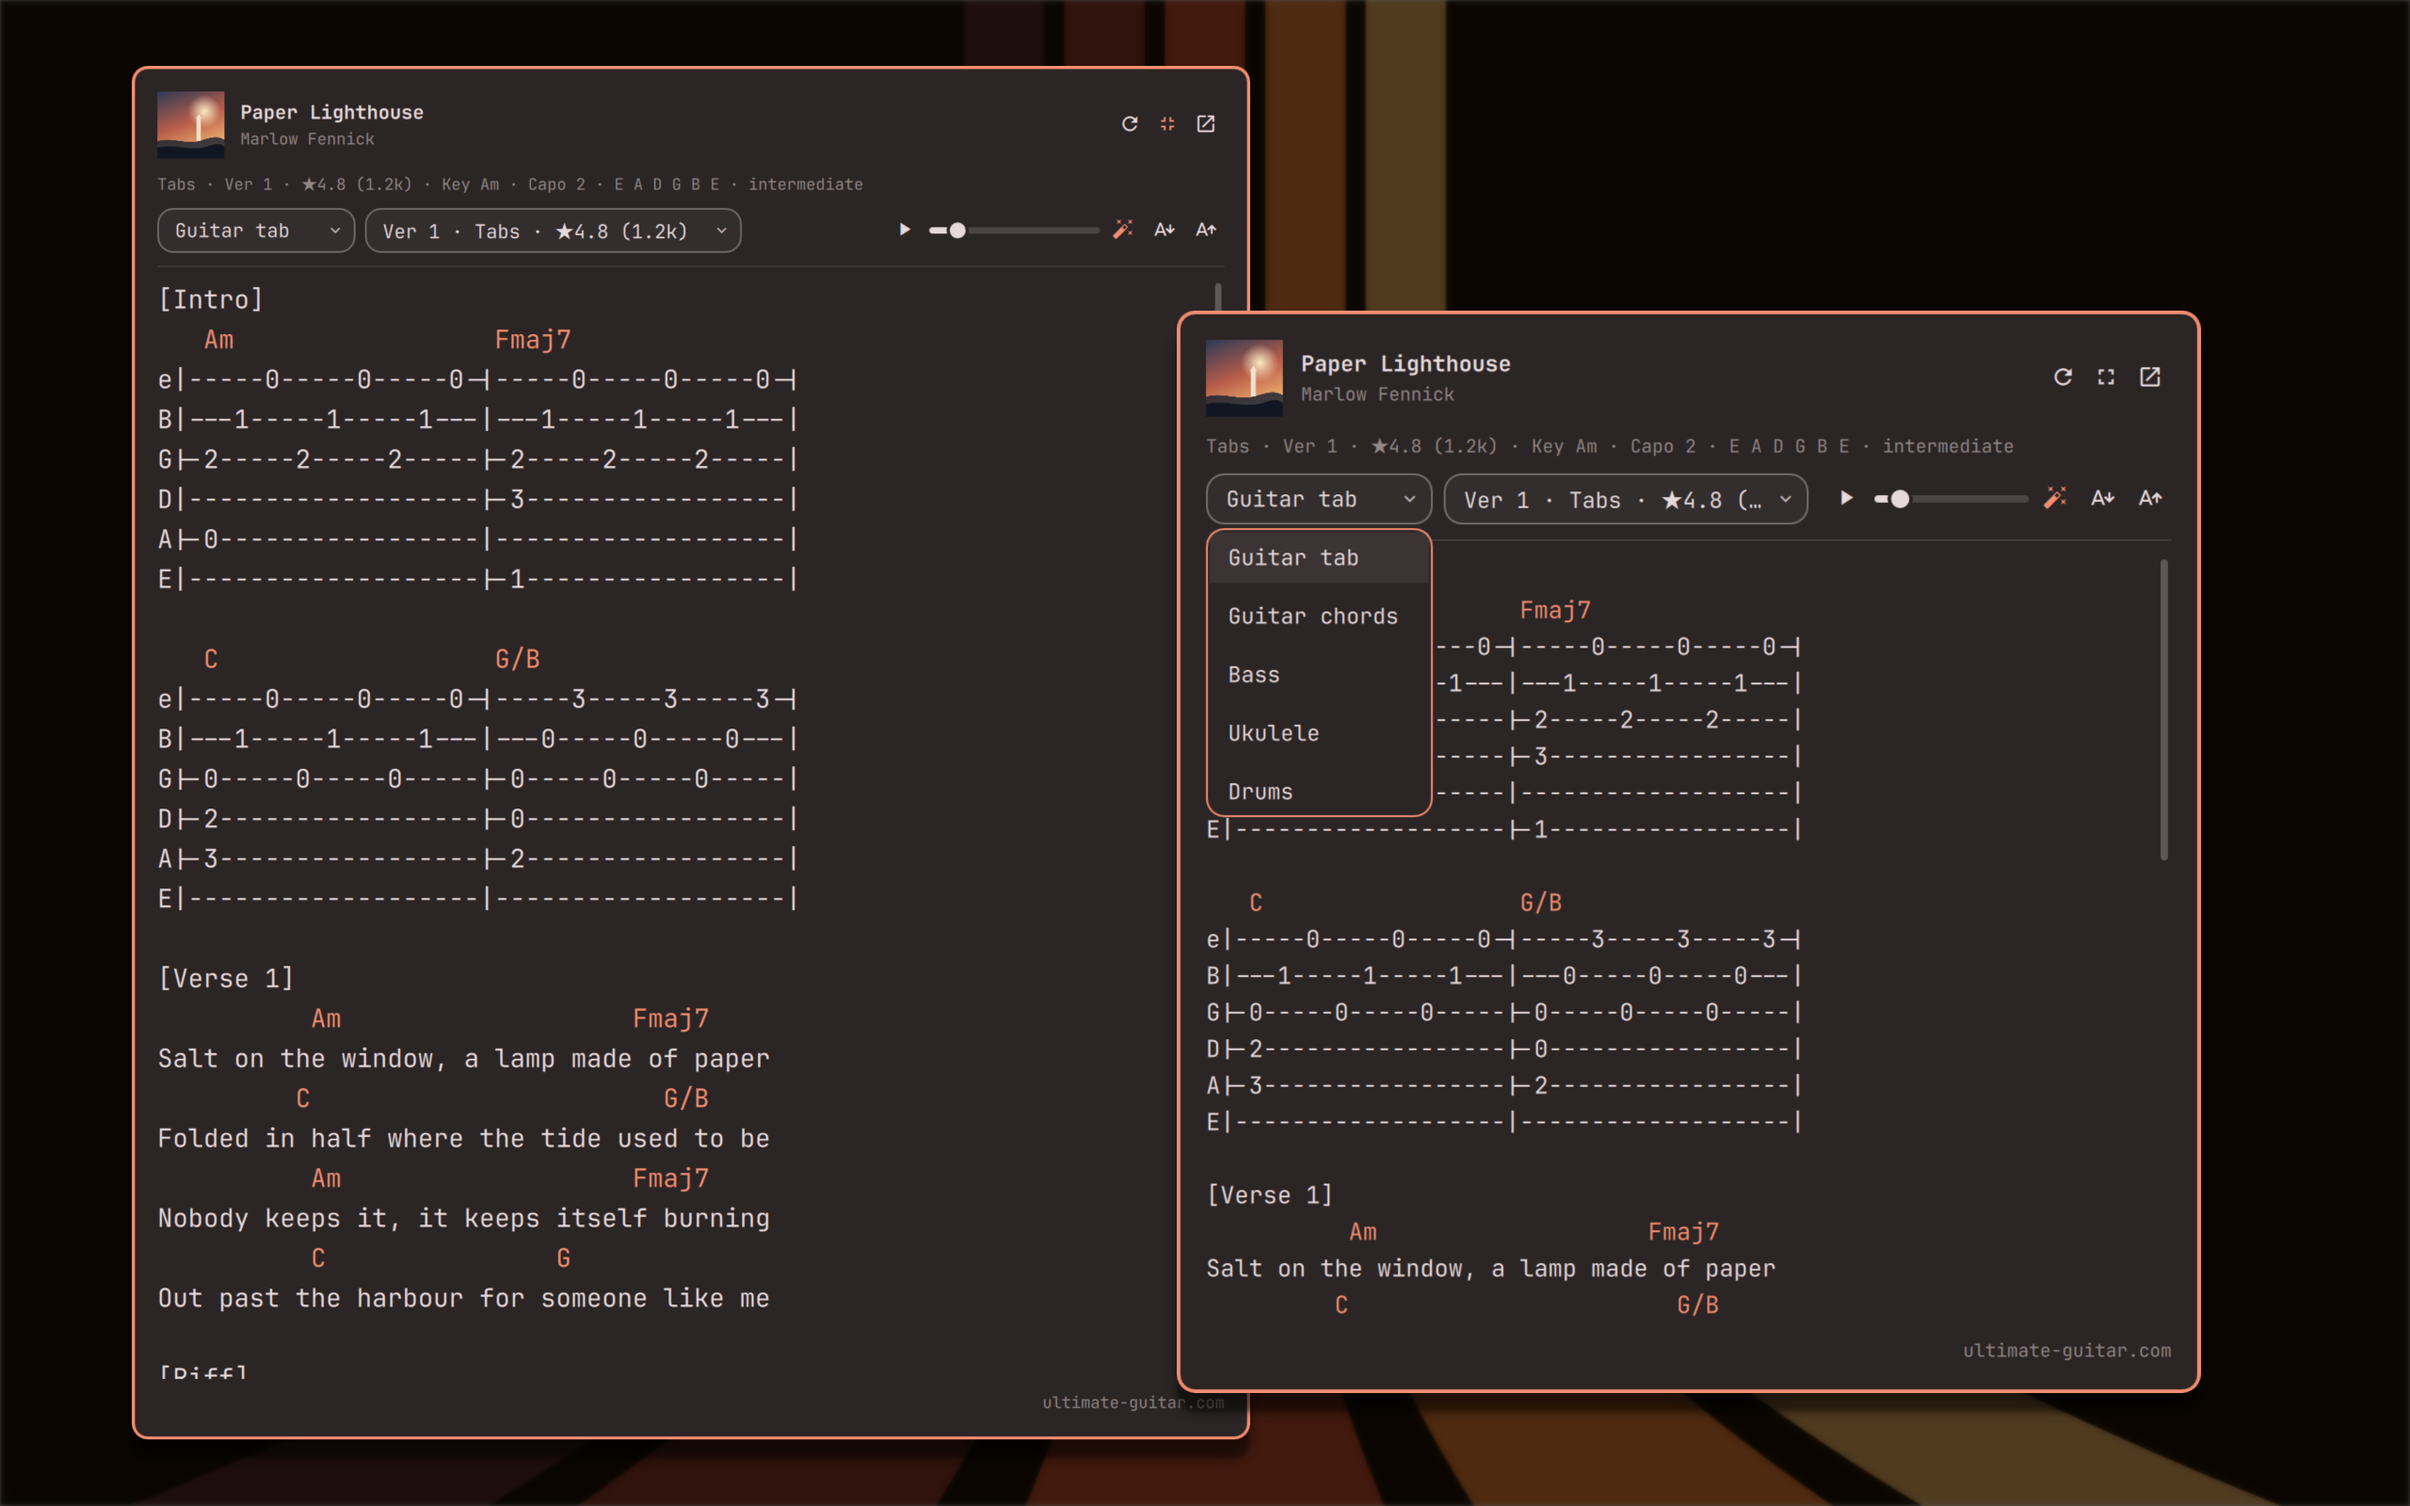
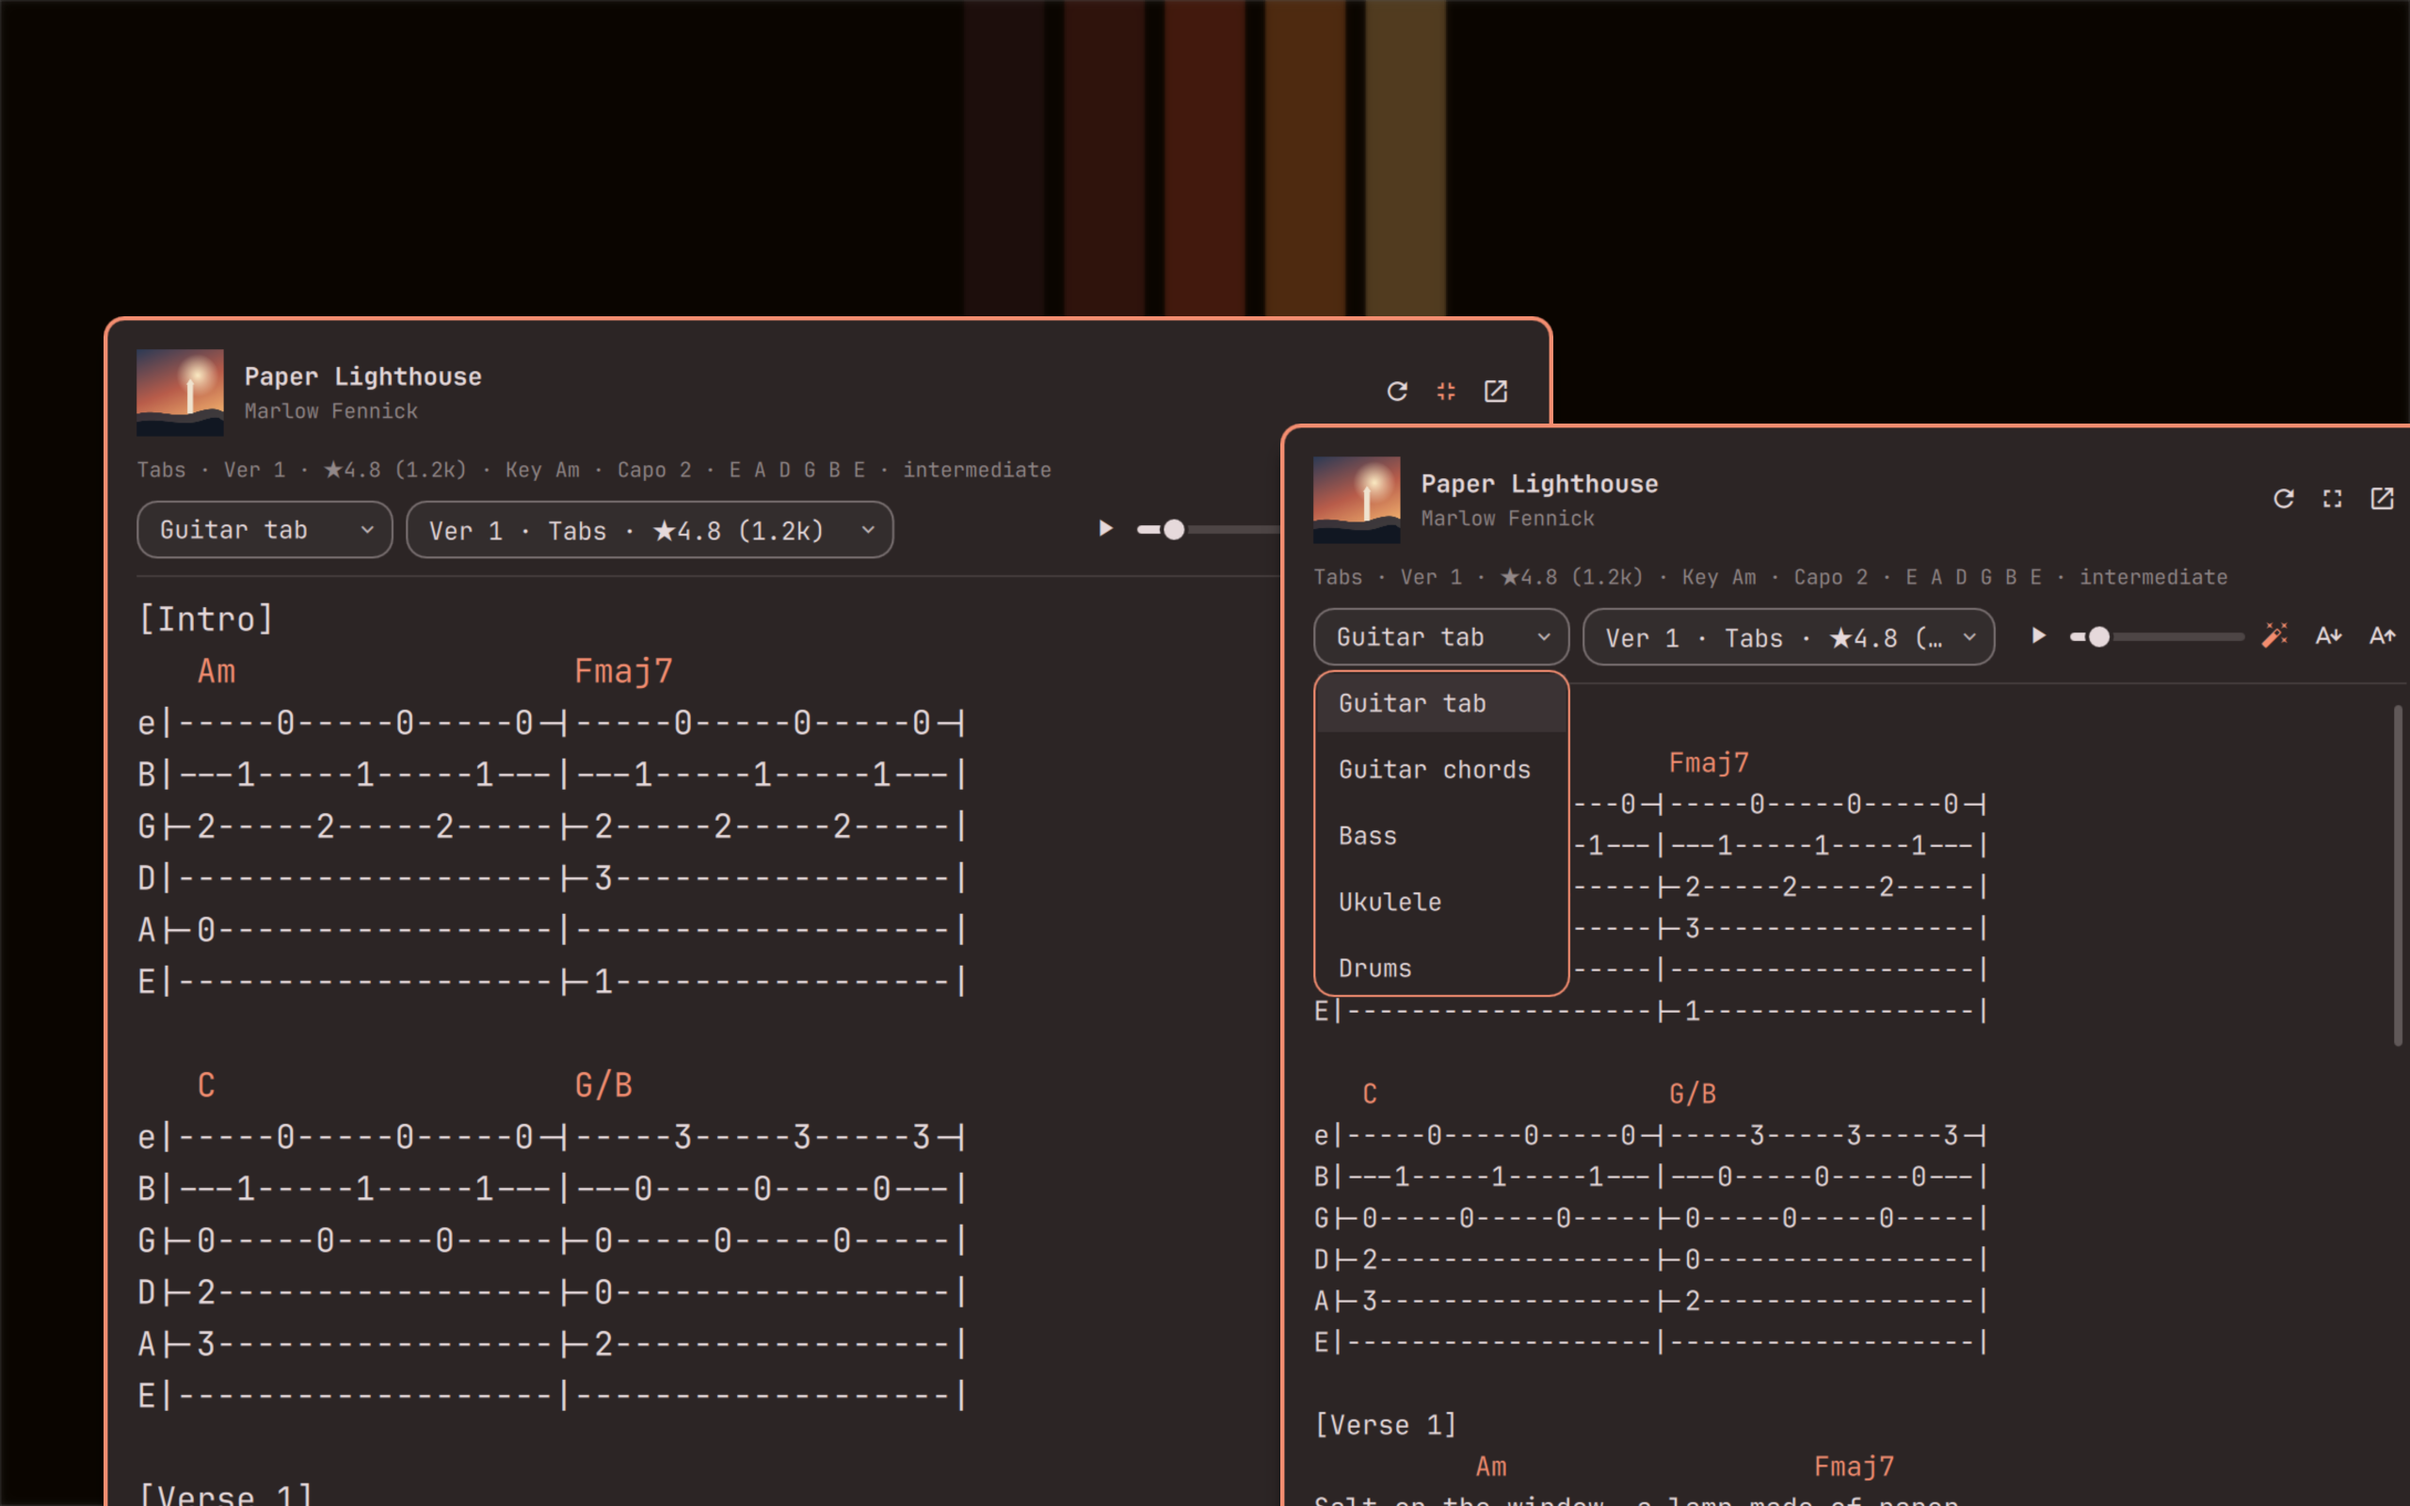
Zoom the marketplace preview in on the reader and the tab
The marketplace card shows only a strip from the middle of the preview, and
websites crop it to 16:9, so the two readers were too small to read there.
They are now shown at about their captured size and run off the edges, with
the song, the pickers and the first bars of the tab in the middle.

Changed region(s): [[0.0312, 0.0312, 1.0, 1.0], [0.75, 0.75, 0.8125, 0.8125], [0.375, 0.75, 0.4062, 0.7812]]

diff --git a/tools/capture/shell.qml b/tools/capture/shell.qml
@@ -128,16 +128,20 @@ ShellRoot {
         layer.effect: MultiEffect { blurEnabled: true; blurMax: 16; blur: 0.7 }
       }
       Rectangle { anchors.fill: parent; color: "#a6000000" }
+      // The marketplace card shows only a strip from the middle, about 2.7
+      // times as wide as it is tall, and websites crop to 16:9. So the readers
+      // are shown at about their captured size and run off the edges, with the
+      // song, the pickers and the first bars of the tab in the middle.
       Image {
         id: expandedShot
-        x: 140; y: 70; width: 1188; height: 1460
+        x: 110; y: 336; width: 1540; height: 1892
         source: preview.visible ? Quickshell.env("UG_CAPTURE_OUTPUT") + "/expanded.png" : ""
         fillMode: Image.PreserveAspectFit
         layer.enabled: true
         layer.effect: MultiEffect { shadowEnabled: true; shadowBlur: 0.8; shadowOpacity: 0.6; shadowVerticalOffset: 20 }
       }
       Image {
-        x: 1250; y: 330; width: 1088; height: 1150
+        x: 1360; y: 450; width: 1232; height: 1302
         source: preview.visible ? Quickshell.env("UG_CAPTURE_OUTPUT") + "/instruments.png" : ""
         fillMode: Image.PreserveAspectFit
         layer.enabled: true
